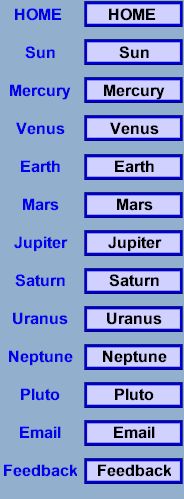
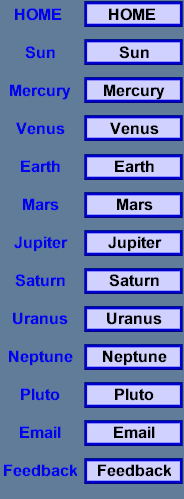
Adjusted background image

diff --git a/pages/sun.html b/pages/sun.html
@@ -6,7 +6,7 @@
 </head>
 <body>
 	<aside>
-		<img src="../images/sun.jpg" width="100" height="100">
+		<img src="../images/sun.jpg" width="120" height="120">
  <class id="aside">
 		<nav id="linkbar">
 			<ul>
@@ -30,7 +30,7 @@
 		<section id="section">
 			<header><div id="title"><h3>S u n</h3></header></div>
 			<div id="content"><p><b>From Wikipedia, the free encyclopedia</b><br><hr>
-				The Sun is the star at the center of the Solar System. It is almost perfectly spherical and consists of hot plasma interwoven with magnetic fields.[13][14] It has a diameter of about 1,392,684 km (865,374 mi),[5] around 109 times that of Earth, and its mass (1.989×1030 kilograms, approximately 330,000 times the mass of Earth) accounts for about 99.86% of the total mass of the Solar System.[15] Chemically, about three quarters of the Sun's mass consists of hydrogen, while the rest is mostly helium. The remainder (1.69%, which nonetheless equals 5,600 times the mass of Earth) consists of heavier elements, including oxygen, carbon, neon and iron, among others.<br>
+<b><i>The Sun is the star at the center of the Solar System. It is almost perfectly spherical and consists of hot plasma interwoven with magnetic fields.[13][14] It has a diameter of about 1,392,684 km (865,374 mi),[5] around 109 times that of Earth, and its mass (1.989×1030 kilograms, approximately 330,000 times the mass of Earth) accounts for about 99.86% of the total mass of the Solar System.[15] Chemically, about three quarters of the Sun's mass consists of hydrogen, while the rest is mostly helium. The remainder (1.69%, which nonetheless equals 5,600 times the mass of Earth) consists of heavier elements, including oxygen, carbon, neon and iron, among others.<br>
 The Sun formed about 4.6 billion[a] years ago from the gravitational collapse of a region within a large molecular cloud. Most of the matter gathered in the center, while the rest flattened into an orbiting disk that would become the Solar System. The central mass became increasingly hot and dense, eventually initiating thermonuclear fusion in its core. It is thought that almost all stars form by this process. The Sun is a G-type main-sequence star (G2V) based on spectral class and it is informally designated as a yellow dwarf because its visible radiation is most intense in the yellow-green portion of the spectrum, and although it is actually white in color, from the surface of the Earth it may appear yellow because of atmospheric scattering of blue light.[17] In the spectral class label, G2 indicates its surface temperature, of approximately 5778 K (5505 °C), and V indicates that the Sun, like most stars, is a main-sequence star, and thus generates its energy by nuclear fusion of hydrogen nuclei into helium. In its core, the Sun fuses about 620 million metric tons of hydrogen each second.<br>
 Once regarded by astronomers as a small and relatively insignificant star, the Sun is now thought to be brighter than about 85% of the stars in the Milky Way, most of which are red dwarfs.[20][21] The absolute magnitude of the Sun is +4.83; however, as the star closest to Earth, the Sun is by far the brightest object in the sky with an apparent magnitude of −26.74.[22][23] This is about 13 billion times brighter than the next brightest star, Sirius, with an apparent magnitude of -1.46. The Sun's hot corona continuously expands in space creating the solar wind, a stream of charged particles that extends to the heliopause at roughly 100 astronomical units. The bubble in the interstellar medium formed by the solar wind, the heliosphere, is the largest continuous structure in the Solar System.<br>
 The Sun is currently traveling through the Local Interstellar Cloud (near to the G-cloud) in the Local Bubble zone, within the inner rim of the Orion Arm of the Milky Way.[26][27] Of the 50 nearest stellar systems within 17 light-years from Earth (the closest being a red dwarf named Proxima Centauri at approximately 4.2 light-years away), the Sun ranks fourth in mass.[28] The Sun orbits the center of the Milky Way at a distance of approximately 24000–26000 light-years from the galactic center, completing one clockwise orbit, as viewed from the galactic north pole, in about 225–250 million years. Since the Milky Way is moving with respect to the cosmic microwave background radiation (CMB) in the direction of the constellation Hydra with a speed of 550 km/s, the Sun's resultant velocity with respect to the CMB is about 370 km/s in the direction of Crater or Leo.[29]

diff --git a/pages/mars.html b/pages/mars.html
@@ -6,7 +6,7 @@
 </head>
 <body>
 	<aside>
-		<img src="../images/mars.jpg" width="100" height="100">
+		<img src="../images/mars.jpg" width="120" height="120">
  <class id="aside">
 		<nav id="linkbar">
 			<ul>
@@ -31,7 +31,7 @@
 		<section id="section">
 			<header><div id="title"><h3>M a r s</h3></header></div>
 			<div id="content"><p><b>From Wikipedia, the free encyclopedia</b><br><hr>
-Mars is the fourth planet from the Sun and the second smallest planet in the Solar System, after Mercury. Named after the Roman god of war, it is often described as the "Red Planet" because the iron oxide prevalent on its surface gives it a reddish appearance.[15] Mars is a terrestrial planet with a thin atmosphere, having surface features reminiscent both of the impact craters of the Moon and the volcanoes, valleys, deserts, and polar ice caps of Earth. The rotational period and seasonal cycles of Mars are likewise similar to those of Earth, as is the tilt that produces the seasons. Mars is the site of Olympus Mons, the second highest known mountain within the Solar System (the tallest on a planet), and of Valles Marineris, one of the largest canyons. The smooth Borealis basin in the northern hemisphere covers 40% of the planet and may be a giant impact feature. Mars has two known moons, Phobos and Deimos, which are small and irregularly shaped. These may be captured asteroids, similar to 5261 Eureka, a Martian trojan asteroid.<br>
+<b><i>Mars is the fourth planet from the Sun and the second smallest planet in the Solar System, after Mercury. Named after the Roman god of war, it is often described as the "Red Planet" because the iron oxide prevalent on its surface gives it a reddish appearance.[15] Mars is a terrestrial planet with a thin atmosphere, having surface features reminiscent both of the impact craters of the Moon and the volcanoes, valleys, deserts, and polar ice caps of Earth. The rotational period and seasonal cycles of Mars are likewise similar to those of Earth, as is the tilt that produces the seasons. Mars is the site of Olympus Mons, the second highest known mountain within the Solar System (the tallest on a planet), and of Valles Marineris, one of the largest canyons. The smooth Borealis basin in the northern hemisphere covers 40% of the planet and may be a giant impact feature. Mars has two known moons, Phobos and Deimos, which are small and irregularly shaped. These may be captured asteroids, similar to 5261 Eureka, a Martian trojan asteroid.<br>
 Until the first successful Mars flyby in 1965 by Mariner 4, many speculated about the presence of liquid water on the planet's surface. This was based on observed periodic variations in light and dark patches, particularly in the polar latitudes, which appeared to be seas and continents; long, dark striations were interpreted by some as irrigation channels for liquid water. These straight line features were later explained as optical illusions, though geological evidence gathered by unmanned missions suggest that Mars once had large-scale water coverage on its surface. In 2005, radar data revealed the presence of large quantities of water ice at the poles[21] and at mid-latitudes. The Mars rover Spirit sampled chemical compounds containing water molecules in March 2007. The Phoenix lander directly sampled water ice in shallow Martian soil on July 31, 2008.<br>
 Mars is currently host to five functioning spacecraft: three in orbit – the Mars Odyssey, Mars Express, and Mars Reconnaissance Orbiter – and two on the surface – Mars Exploration Rover Opportunity and the Mars Science Laboratory Curiosity. Defunct spacecraft on the surface include MER-A Spirit and several other inert landers and rovers such as the Phoenix lander, which completed its mission in 2008. Observations by the Mars Reconnaissance Orbiter have revealed possible flowing water during the warmest months on Mars. In 2013, NASA's Curiosity rover discovered that Mars' soil contains between 1.5% and 3% water by mass (about two pints of water per cubic foot or 33 liters per cubic meter, albeit attached to other compounds and thus not freely accessible).<br>
 Mars can easily be seen from Earth with the naked eye, as can its reddish coloring. Its apparent magnitude reaches −3.0, which is surpassed only by Jupiter, Venus, the Moon, and the Sun. Optical ground-based telescopes are typically limited to resolving features about 300 km (186 miles) across when Earth and Mars are closest because of Earth's atmosphere.</p></div>

diff --git a/pages/ssindex.html b/pages/ssindex.html
@@ -6,7 +6,7 @@
 </head>
 <body>
 	<aside>
-		<img src="../images/solarsystem.jpg" width="100" height="100">
+		<img src="../images/solarsystem.jpg" width="120" height="120">
  <class id="aside">
 		<nav id="linkbar">
 			<ul>
@@ -30,7 +30,7 @@
 		<section id="section">
 			<header><div id="title"><h3>OUR SOLAR SYSTEM</h3></header></div>
 			<div id="content"><p><b>From Wikipedia, the free encyclopedia</b><br><hr>
-The Solar System is the Sun and the objects that orbit the Sun. These are a planetary system of eight planets and various secondary bodies, dwarf planets and small Solar System objects that orbit the Sun directly, as well as satellites (moons) that orbit many planets and smaller objects. The Solar System formed 4.6 billion years ago from the gravitational collapse of a giant molecular cloud. The vast majority of the system's mass is in the Sun, with most of the remaining mass contained in Jupiter. The four smaller inner planets, Mercury, Venus, Earth and Mars, also called the terrestrial planets, are primarily composed of rock and metal. The four outer planets, called the gas giants, are substantially more massive than the terrestrials. The two largest, Jupiter and Saturn, are composed mainly of hydrogen and helium; the two outermost planets, Uranus and Neptune, are composed largely of substances with relatively high melting points (compared with hydrogen and helium), called ices, such as water, ammonia and methane, and are often referred to separately as "ice giants". All planets have almost circular orbits that lie within a nearly flat disc called the ecliptic plane.<br>
+<b><i>The Solar System is the Sun and the objects that orbit the Sun. These are a planetary system of eight planets and various secondary bodies, dwarf planets and small Solar System objects that orbit the Sun directly, as well as satellites (moons) that orbit many planets and smaller objects. The Solar System formed 4.6 billion years ago from the gravitational collapse of a giant molecular cloud. The vast majority of the system's mass is in the Sun, with most of the remaining mass contained in Jupiter. The four smaller inner planets, Mercury, Venus, Earth and Mars, also called the terrestrial planets, are primarily composed of rock and metal. The four outer planets, called the gas giants, are substantially more massive than the terrestrials. The two largest, Jupiter and Saturn, are composed mainly of hydrogen and helium; the two outermost planets, Uranus and Neptune, are composed largely of substances with relatively high melting points (compared with hydrogen and helium), called ices, such as water, ammonia and methane, and are often referred to separately as "ice giants". All planets have almost circular orbits that lie within a nearly flat disc called the ecliptic plane.<br>
 The Solar System also contains regions populated by smaller objects. The asteroid belt, which lies between Mars and Jupiter, mostly contains objects composed, like the terrestrial planets, of rock and metal. Beyond Neptune's orbit lie the Kuiper belt and scattered disc, linked populations of trans-Neptunian objects composed mostly of ices. Within these populations are several dozen to more than ten thousand objects that may be large enough to have been rounded by their own gravity. Such objects are referred to as dwarf planets. Identified dwarf planets include the asteroid Ceres and the trans-Neptunian objects Pluto and Eris. In addition to these two regions, various other small-body populations including comets, centaurs and interplanetary dust freely travel between regions. Six of the planets, at least three of the dwarf planets, and many of the smaller bodies are orbited by natural satellites,[d] usually termed "moons" after Earth's Moon. Each of the outer planets is encircled by planetary rings of dust and other small objects.<br>
 The solar wind, a flow of plasma from the Sun, creates a bubble in the interstellar medium known as the heliosphere, which extends out to the edge of the scattered disc. The Oort cloud, which is believed to be the source for long-period comets, may also exist at a distance roughly a thousand times further than the heliosphere. The heliopause is the point at which pressure from the solar wind is equal to the opposing pressure of interstellar wind. The Solar System is located within one of the outer arms of the Milky Way, which contains about 200 billion stars.</p></div>
 <br>

diff --git a/pages/neptune.html b/pages/neptune.html
@@ -6,7 +6,7 @@
 </head>
 <body>
 	<aside>
-		<img src="../images/neptune.jpg" width="100" height="100">
+		<img src="../images/neptune.jpg" width="120" height="120">
  <class id="aside">
 		<nav id="linkbar">
 			<ul>
@@ -30,7 +30,7 @@
 		<section id="section">
 			<header><div id="title"><h3>N e p t u n e</h3></header></div>
 			<div id="content"><p><b>From Wikipedia, the free encyclopedia</b><br><hr>
-Neptune is the eighth and farthest planet from the Sun in the Solar System. It is the fourth-largest planet by diameter and the third-largest by mass. Among the gaseous planets in the solar system, Neptune is the most dense. Neptune is 17 times the mass of Earth and is slightly more massive than its near-twin Uranus, which is 15 times the mass of Earth but not as dense.[c] On average, Neptune orbits the Sun at a distance of 30.1 AU, approximately 30 times the Earth–Sun distance. Named after the Roman god of the sea, its astronomical symbol is ♆, a stylised version of the god Neptune's trident.<br>
+<b><i>Neptune is the eighth and farthest planet from the Sun in the Solar System. It is the fourth-largest planet by diameter and the third-largest by mass. Among the gaseous planets in the solar system, Neptune is the most dense. Neptune is 17 times the mass of Earth and is slightly more massive than its near-twin Uranus, which is 15 times the mass of Earth but not as dense.[c] On average, Neptune orbits the Sun at a distance of 30.1 AU, approximately 30 times the Earth–Sun distance. Named after the Roman god of the sea, its astronomical symbol is ♆, a stylised version of the god Neptune's trident.<br>
 Neptune was the first planet found by mathematical prediction rather than by empirical observation. Unexpected changes in the orbit of Uranus led Alexis Bouvard to deduce that its orbit was subject to gravitational perturbation by an unknown planet. Neptune was subsequently observed on 23 September 1846[1] by Johann Galle within a degree of the position predicted by Urbain Le Verrier, and its largest moon, Triton, was discovered shortly thereafter, though none of the planet's remaining 13 moons were located telescopically until the 20th century. Neptune has been visited by one spacecraft, Voyager 2, which flew by the planet on 25 August 1989.<br>
 Neptune is similar in composition to Uranus, and both have compositions which differ from those of the larger gas giants, Jupiter, and Saturn. Neptune's atmosphere, while similar to Jupiter's and Saturn's in that it is composed primarily of hydrogen and helium, along with traces of hydrocarbons and possibly nitrogen, contains a higher proportion of "ices" such as water, ammonia, and methane. Astronomers sometimes categorise Uranus and Neptune as "ice giants" in order to emphasise these distinctions.[10] The interior of Neptune, like that of Uranus, is primarily composed of ices and rock.[11] It is possible that the core has a solid surface, but the temperature would be thousands of degrees and the atmospheric pressure crushing. Traces of methane in the outermost regions in part account for the planet's blue appearance.<br>
 In contrast to the hazy, relatively featureless atmosphere of Uranus, Neptune's atmosphere is notable for its active and visible weather patterns. For example, at the time of the 1989 Voyager 2 flyby, the planet's southern hemisphere possessed a Great Dark Spot comparable to the Great Red Spot on Jupiter. These weather patterns are driven by the strongest sustained winds of any planet in the Solar System, with recorded wind speeds as high as 2,100 kilometres per hour (1,300 mph).<br> Because of its great distance from the Sun, Neptune's outer atmosphere is one of the coldest places in the Solar System, with temperatures at its cloud tops approaching 55 K (−218 °C). Temperatures at the planet's centre are approximately 5,400 K (5,000 °C).[15][16] Neptune has a faint and fragmented ring system (labeled 'arcs'), which may have been detected during the 1960s but was only indisputably confirmed in 1989 by Voyager 2.</p></div>

diff --git a/pages/mercury.html b/pages/mercury.html
@@ -6,7 +6,7 @@
 </head>
 <body>
 	<aside>
-		<img src="../images/mercury.jpg" width="100" height="100">
+		<img src="../images/mercury.jpg" width="120" height="120">
  <class id="aside">
 		<nav id="linkbar">
 			<ul>
@@ -30,7 +30,7 @@
 		<section id="section">
 			<header><div id="title"><h3>M e r c u r y</h3></header></div>
 			<div id="content"><p><b>From Wikipedia, the free encyclopedia</b><br><hr>
-Mercury is the smallest and closest to the Sun of the eight planets in the Solar System, with an orbital period of about 88 Earth days. Seen from Earth, it appears to move around its orbit in about 116 days, which is much faster than any other planet. This rapid motion may have led to it being named after the Roman deity Mercury, the fast-flying messenger to the gods. Because it has almost no atmosphere to retain heat, Mercury's surface experiences the greatest temperature variation of all the planets, ranging from 100 K (−173 °C; −280 °F) at night to 700 K (427 °C; 800 °F) during the day at some equatorial regions. The poles are constantly below 180 K (−93 °C; −136 °F). Mercury's axis has the smallest tilt of any of the Solar System's planets (about 1⁄30 of a degree), but it has the largest orbital eccentricity. As such it does not experience seasons in the same way as most other planets such as Earth. At aphelion, Mercury is about 1.5 times as far from the Sun as it is at perihelion. Mercury's surface is heavily cratered and similar in appearance to the Moon, indicating that it has been geologically inactive for billions of years.<br>
+<b><i>Mercury is the smallest and closest to the Sun of the eight planets in the Solar System, with an orbital period of about 88 Earth days. Seen from Earth, it appears to move around its orbit in about 116 days, which is much faster than any other planet. This rapid motion may have led to it being named after the Roman deity Mercury, the fast-flying messenger to the gods. Because it has almost no atmosphere to retain heat, Mercury's surface experiences the greatest temperature variation of all the planets, ranging from 100 K (−173 °C; −280 °F) at night to 700 K (427 °C; 800 °F) during the day at some equatorial regions. The poles are constantly below 180 K (−93 °C; −136 °F). Mercury's axis has the smallest tilt of any of the Solar System's planets (about 1⁄30 of a degree), but it has the largest orbital eccentricity. As such it does not experience seasons in the same way as most other planets such as Earth. At aphelion, Mercury is about 1.5 times as far from the Sun as it is at perihelion. Mercury's surface is heavily cratered and similar in appearance to the Moon, indicating that it has been geologically inactive for billions of years.<br>
 Mercury is gravitationally locked and rotates in a way that is unique in the Solar System. As seen relative to the fixed stars, it rotates exactly three times for every two revolutions it makes around its orbit. As seen from the Sun, in a frame of reference that rotates with the orbital motion, it appears to rotate only once every two Mercurian years. An observer on Mercury would therefore see only one day every two years.<br>
 Because Mercury's orbit lies within Earth's orbit (as does Venus's), it can appear in Earth's sky in the morning or the evening, but not in the middle of the night. Also, like Venus and the Moon, it displays a complete range of phases as it moves around its orbit relative to Earth. Although Mercury can appear as a very bright object when viewed from Earth, its proximity to the Sun makes it more difficult to see than Venus. Two spacecraft have visited Mercury: Mariner 10 flew by in the 1970s and MESSENGER, launched in 2004, remains in orbit.</p></div>
 <br>

diff --git a/pages/jupiter.html b/pages/jupiter.html
@@ -6,7 +6,7 @@
 </head>
 <body>
 	<aside>
-		<img src="../images/jupiter.jpg" width="100" height="100">
+		<img src="../images/jupiter.jpg" width="120" height="120">
  <class id="aside">
 		<nav id="linkbar">
 			<ul>
@@ -30,7 +30,7 @@
 		<section id="section">
 			<header><div id="title"><h3>J u p i t e r</h3></header></div>
 			<div id="content"><p><b>From Wikipedia, the free encyclopedia</b><br><hr>
-Jupiter is the fifth planet from the Sun and the largest planet in the Solar System. It is a gas giant with mass one-thousandth of that of the Sun but is two and a half times the mass of all the other planets in the Solar System combined. Jupiter is classified as a gas giant along with Saturn, Uranus and Neptune. Together, these four planets are sometimes referred to as the Jovian or outer planets. The planet was known by astronomers of ancient times, and was associated with the mythology and religious beliefs of many cultures. The Romans named the planet after the Roman god Jupiter. When viewed from Earth, Jupiter can reach an apparent magnitude of −2.94, bright enough to cast shadows, and making it on average the third-brightest object in the night sky after the Moon and Venus. (Mars can briefly match Jupiter's brightness at certain points in its orbit.)<br>
+<b><i>Jupiter is the fifth planet from the Sun and the largest planet in the Solar System. It is a gas giant with mass one-thousandth of that of the Sun but is two and a half times the mass of all the other planets in the Solar System combined. Jupiter is classified as a gas giant along with Saturn, Uranus and Neptune. Together, these four planets are sometimes referred to as the Jovian or outer planets. The planet was known by astronomers of ancient times, and was associated with the mythology and religious beliefs of many cultures. The Romans named the planet after the Roman god Jupiter. When viewed from Earth, Jupiter can reach an apparent magnitude of −2.94, bright enough to cast shadows, and making it on average the third-brightest object in the night sky after the Moon and Venus. (Mars can briefly match Jupiter's brightness at certain points in its orbit.)<br>
 Jupiter is primarily composed of hydrogen with a quarter of its mass being helium, although helium only comprises about a tenth of the number of molecules. It may also have a rocky core of heavier elements, but like the other gas giants, Jupiter lacks a well-defined solid surface. Because of its rapid rotation, the planet's shape is that of an oblate spheroid (it possesses a slight but noticeable bulge around the equator). The outer atmosphere is visibly segregated into several bands at different latitudes, resulting in turbulence and storms along their interacting boundaries. A prominent result is the Great Red Spot, a giant storm that is known to have existed since at least the 17th century when it was first seen by telescope. Surrounding Jupiter is a faint planetary ring system and a powerful magnetosphere. There are also at least 67 moons, including the four large moons called the Galilean moons that were first discovered by Galileo Galilei in 1610. Ganymede, the largest of these moons, has a diameter greater than that of the planet Mercury.<br>
 Jupiter has been explored on several occasions by robotic spacecraft, most notably during the early Pioneer and Voyager flyby missions and later by the Galileo orbiter. The most recent probe to visit Jupiter was the Pluto-bound New Horizons spacecraft in late February 2007. The probe used the gravity from Jupiter to increase its speed. Future targets for exploration in the Jovian system include the possible ice-covered liquid ocean on the moon Europa.</p></div>
 <br>

diff --git a/pages/pluto.html b/pages/pluto.html
@@ -6,7 +6,7 @@
 </head>
 <body>
 	<aside>
-		<img src="../images/pluto.gif" width="100" height="100">
+		<img src="../images/pluto.gif" width="120" height="120">
  <class id="aside">
 		<nav id="linkbar">
 			<ul>
@@ -31,7 +31,7 @@
 		<section id="section">
 			<header><div id="title"><h3>P l u t o</h3></header></div>
 			<div id="content"><p><b>From Wikipedia, the free encyclopedia</b><br><hr>
-Pluto (minor-planet designation 134340 Pluto) is the largest object in the Kuiper belt, and the tenth-most-massive body observed directly orbiting the Sun. It is the second-most-massive known dwarf planet, after Eris. Like other Kuiper-belt objects, Pluto is composed primarily of rock and ice[15] and is relatively small, approximately one-sixth the mass of the Moon and one-third its volume. It has an eccentric and highly inclined orbit that takes it from 30 to 49 AU (4.4–7.4 billion km) from the Sun. This causes Pluto to periodically come closer to the Sun than Neptune. As of 2014, it is 32.6 AU from the Sun.<br>
+<b><i>Pluto (minor-planet designation 134340 Pluto) is the largest object in the Kuiper belt, and the tenth-most-massive body observed directly orbiting the Sun. It is the second-most-massive known dwarf planet, after Eris. Like other Kuiper-belt objects, Pluto is composed primarily of rock and ice[15] and is relatively small, approximately one-sixth the mass of the Moon and one-third its volume. It has an eccentric and highly inclined orbit that takes it from 30 to 49 AU (4.4–7.4 billion km) from the Sun. This causes Pluto to periodically come closer to the Sun than Neptune. As of 2014, it is 32.6 AU from the Sun.<br>
 Discovered in 1930, Pluto was originally classified as the ninth planet from the Sun. Its status as a major planet fell into question following further study of it and the outer Solar System over the ensuing 75 years. Starting in 1977 with discovery of minor planet 2060 Chiron, numerous icy objects similar to Pluto with eccentric orbits were found.[16] The most notable of these was the scattered disc object Eris, discovered in 2005, which is 27% more massive than Pluto.[17] The understanding that Pluto is only one of several large icy bodies in the outer Solar System prompted the International Astronomical Union (IAU) to formally define what it means to be a "planet" in 2006. This definition excluded Pluto and reclassified it as a member of the new "dwarf planet" category (and specifically as a plutoid).[18] Some scientists hold that Pluto should have remained classified as a planet, and that other dwarf planets should be added to the roster of planets along with Pluto.<br>
 Pluto has five known moons: Charon (the largest, with a diameter just over half that of Pluto), Nix, Hydra, Kerberos, and Styx. Pluto and Charon are sometimes described as a binary system because the barycenter of their orbits does not lie within either body.[22] The IAU has yet to formalise a definition for binary dwarf planets, and Charon is officially classified as a moon of Pluto.[23]
 In 2015, the Pluto system is due to be visited by spacecraft for the first time. The New Horizons probe will perform a flyby during which it will attempt to take detailed measurements and images of the plutoid and its moons.</p></div>

diff --git a/pages/uranus.html b/pages/uranus.html
@@ -6,7 +6,7 @@
 </head>
 <body>
 	<aside>
-		<img src="../images/uranus.jpg" width="100" height="100">
+		<img src="../images/uranus.jpg" width="120" height="120">
  <class id="aside">
 		<nav id="linkbar">
 			<ul>
@@ -30,7 +30,7 @@
 		<section id="section">
 			<header><div id="title"><h3>U r a n u s</h3></header></div>
 			<div id="content"><p><b>From Wikipedia, the free encyclopedia</b><br><hr>
-Uranus is the seventh planet from the Sun. It has the third-largest planetary radius and fourth-largest planetary mass in the Solar System. Uranus is similar in composition to Neptune, and both are of different chemical composition than the larger gas giants Jupiter and Saturn. For this reason, astronomers sometimes place them in a separate category called "ice giants". Uranus's atmosphere, although similar to Jupiter's and Saturn's in its primary composition of hydrogen and helium, contains more "ices" such as water, ammonia, and methane, along with traces of hydrocarbons.[12] It is the coldest planetary atmosphere in the Solar System, with a minimum temperature of 49 K (−224.2 °C), and has a complex, layered cloud structure, with water thought to make up the lowest clouds, and methane the uppermost layer of clouds.[12] In contrast, the interior of Uranus is mainly composed of ices and rock.<br>
+<b><i>Uranus is the seventh planet from the Sun. It has the third-largest planetary radius and fourth-largest planetary mass in the Solar System. Uranus is similar in composition to Neptune, and both are of different chemical composition than the larger gas giants Jupiter and Saturn. For this reason, astronomers sometimes place them in a separate category called "ice giants". Uranus's atmosphere, although similar to Jupiter's and Saturn's in its primary composition of hydrogen and helium, contains more "ices" such as water, ammonia, and methane, along with traces of hydrocarbons.[12] It is the coldest planetary atmosphere in the Solar System, with a minimum temperature of 49 K (−224.2 °C), and has a complex, layered cloud structure, with water thought to make up the lowest clouds, and methane the uppermost layer of clouds.[12] In contrast, the interior of Uranus is mainly composed of ices and rock.<br>
 It is the only planet whose name is derived from a figure from Greek mythology rather than Roman mythology like the other planets, from the Latinized version of the Greek god of the sky, Ouranos. Like the other giant planets, Uranus has a ring system, a magnetosphere, and numerous moons. The Uranian system has a unique configuration among those of the planets because its axis of rotation is tilted sideways, nearly into the plane of its revolution about the Sun. Its north and south poles therefore lie where most other planets have their equators.[16] In 1986, images from Voyager 2 showed Uranus as a virtually featureless planet in visible light without the cloud bands or storms associated with the other giants.[16] Terrestrial observers have seen signs of seasonal change and increased weather activity in recent years as Uranus approached its equinox. The wind speeds on Uranus can reach 250 meters per second (900 km/h, 560 mph).</p></div>
 <br>
 <hr>

diff --git a/pages/venus.html b/pages/venus.html
@@ -6,7 +6,7 @@
 </head>
 <body>
 	<aside>
-		<img src="../images/venus.jpg" width="100" height="100">
+		<img src="../images/venus.jpg" width="120" height="120">
  <class id="aside">
 		<nav id="linkbar">
 			<ul>
@@ -30,7 +30,7 @@
 		<section id="section">
 			<header><div id="title"><h3>V e n u s</h3></header></div>
 			<div id="content"><p><b>From Wikipedia, the free encyclopedia</b><br><hr>
-Venus is the second planet from the Sun, orbiting it every 224.7 Earth days.[11] It has no natural satellite. It is named after the Roman goddess of love and beauty. After the Moon, it is the brightest natural object in the night sky, reaching an apparent magnitude of −4.6, bright enough to cast shadows.[12] Because Venus is an inferior planet from Earth, it never appears to venture far from the Sun: its elongation reaches a maximum of 47.8°. Venus reaches its maximum brightness shortly before sunrise or shortly after sunset, for which reason it has been referred to by ancient cultures as the Morning Star or Evening Star.<br>
+<b><i>Venus is the second planet from the Sun, orbiting it every 224.7 Earth days.[11] It has no natural satellite. It is named after the Roman goddess of love and beauty. After the Moon, it is the brightest natural object in the night sky, reaching an apparent magnitude of −4.6, bright enough to cast shadows.[12] Because Venus is an inferior planet from Earth, it never appears to venture far from the Sun: its elongation reaches a maximum of 47.8°. Venus reaches its maximum brightness shortly before sunrise or shortly after sunset, for which reason it has been referred to by ancient cultures as the Morning Star or Evening Star.<br>
 Venus is a terrestrial planet and is sometimes called Earth's "sister planet" because of their similar size, gravity, and bulk composition (Venus is both the closest planet to Earth and the planet closest in size to Earth). However, it has also been shown to be very different from Earth in other respects. It has the densest atmosphere of the four terrestrial planets, consisting of more than 96% carbon dioxide. The atmospheric pressure at the planet's surface is 92 times that of Earth's. With a mean surface temperature of 735 K (462 °C; 863 °F), Venus is by far the hottest planet in the Solar System. It has no carbon cycle to lock carbon back into rocks and surface features, nor does it seem to have any organic life to absorb it in biomass. Venus is shrouded by an opaque layer of highly reflective clouds of sulfuric acid, preventing its surface from being seen from space in visible light. Venus may have possessed oceans in the past,[13][14] but these would have vaporized as the temperature rose due to a runaway greenhouse effect.[15] The water has most probably photodissociated, and, because of the lack of a planetary magnetic field, the free hydrogen has been swept into interplanetary space by the solar wind.[16] Venus's surface is a dry desertscape interspersed with slab-like rocks and periodically refreshed by volcanism.</p></div>
 <br>
 <hr>

diff --git a/pages/earth.html b/pages/earth.html
@@ -6,7 +6,7 @@
 </head>
 <body>
 	<aside>
-		<img src="../images/earth.jpg" width="100" height="100">
+		<img src="../images/earth.jpg" width="120" height="120">
  <class id="aside">
 		<nav id="linkbar">
 			<ul>
@@ -30,7 +30,7 @@
 		<section id="section">
 			<header><div id="title"><h3>E a r t h</h3></header></div>
 			<div id="content"><p><b>From Wikipedia, the free encyclopedia</b><br><hr>
-Earth is the third planet from the Sun. It is the densest and fifth-largest of the eight planets in the Solar System. It is also the largest of the Solar System's four terrestrial planets. It is sometimes referred to as the world or the Blue Planet.<br>
+<b><i>Earth is the third planet from the Sun. It is the densest and fifth-largest of the eight planets in the Solar System. It is also the largest of the Solar System's four terrestrial planets. It is sometimes referred to as the world or the Blue Planet.<br>
 Earth formed approximately 4.54 billion years ago, and life appeared on its surface within its first billion years. Earth's biosphere then significantly altered the atmospheric and other basic physical conditions, which enabled the proliferation of organisms as well as the formation of the ozone layer, which together with Earth's magnetic field blocked harmful solar radiation, and permitted formerly ocean-confined life to move safely to land. The physical properties of the Earth, as well as its geological history and orbit, have allowed life to persist.<br>
 Earth's lithosphere is divided into several rigid segments, or tectonic plates, that migrate across the surface over periods of many millions of years. Over 70% percent of Earth's surface is covered with water, with the remainder consisting of continents and islands which together have many lakes and other sources of water that contribute to the hydrosphere. Earth's poles are mostly covered with ice that is the solid ice of the Antarctic ice sheet and the sea ice that is the polar ice packs. The planet's interior remains active, with a solid iron inner core, a liquid outer core that generates the magnetic field, and a thick layer of relatively solid mantle.<br>
 Earth gravitationally interacts with other objects in space, especially the Sun and the Moon. During one orbit around the Sun, the Earth rotates about its own axis 366.26 times, creating 365.26 solar days, or one sidereal year.[note 6] The Earth's axis of rotation is tilted 23.4° away from the perpendicular of its orbital plane, producing seasonal variations on the planet's surface with a period of one tropical year (365.24 solar days). The Moon is Earth's only natural satellite. It began orbiting the Earth about 4.53 billion years ago (bya). The Moon's gravitational interaction with Earth stimulates ocean tides, stabilizes the axial tilt, and gradually slows the planet's rotation.<br>

diff --git a/pages/saturn.html b/pages/saturn.html
@@ -6,7 +6,7 @@
 </head>
 <body>
 	<aside>
-		<img src="../images/saturn.jpg" width="100" height="100">
+		<img src="../images/saturn.jpg" width="120" height="120">
  <class id="aside">
 		<nav id="linkbar">
 			<ul>
@@ -31,7 +31,7 @@
 		<section id="section">
 			<header><div id="title"><h3>S a t u r n</h3></header></div>
 			<div id="content"><p><b>From Wikipedia, the free encyclopedia</b><br><hr>
-Saturn is the sixth planet from the Sun and the second largest planet in the Solar System, after Jupiter. Named after the Roman god of agriculture, its astronomical symbol (♄) represents the god's sickle. Saturn is a gas giant with an average radius about nine times that of Earth.[10][11] While only one-eighth the average density of Earth, with its larger volume Saturn is just over 95 times more massive.<br>
+<b><i>Saturn is the sixth planet from the Sun and the second largest planet in the Solar System, after Jupiter. Named after the Roman god of agriculture, its astronomical symbol (♄) represents the god's sickle. Saturn is a gas giant with an average radius about nine times that of Earth.[10][11] While only one-eighth the average density of Earth, with its larger volume Saturn is just over 95 times more massive.<br>
 Saturn's interior is probably composed of a core of iron, nickel and rock (silicon and oxygen compounds), surrounded by a deep layer of metallic hydrogen, an intermediate layer of liquid hydrogen and liquid helium and an outer gaseous layer.[15] The planet exhibits a pale yellow hue due to ammonia crystals in its upper atmosphere. Electrical current within the metallic hydrogen layer is thought to give rise to Saturn's planetary magnetic field, which is weaker than Earth's magnetic field but has a magnetic moment 580 times that of the Earth due to Saturn's larger body radius. Saturn's magnetic field strength is around one-twentieth the strength of Jupiter's.[16] The outer atmosphere is generally bland and lacking in contrast, although long-lived features can appear. Wind speeds on Saturn can reach 1,800 km/h (1,100 mph), faster than on Jupiter, but not as fast as those on Neptune.<br>
 Saturn has a prominent ring system that consists of nine continuous main rings and three discontinuous arcs, composed mostly of ice particles with a smaller amount of rocky debris and dust. Sixty-two[18] known moons orbit the planet; fifty-three are officially named. This does not include the hundreds of "moonlets" comprising the rings. Titan, Saturn's largest and the Solar System's second largest moon, is larger than the planet Mercury and is the only moon in the Solar System to retain a substantial atmosphere.</p></div>
 <br>

diff --git a/stylesheets/solarsystemstylesheet.css b/stylesheets/solarsystemstylesheet.css
@@ -4,7 +4,7 @@
 
 /*opacity:0.2;*/
 
-html{background:url(../images/milkywayfade.jpg);
+html{background:url(../images/milkywayfadelight.jpg);
 	background-clip:padding-box;
 }
 
@@ -19,8 +19,9 @@ font: 14px "Verdana", Georgia,Serif;
  }
  aside{background-color:rgba(0,128,255,0.2);
  	float:left;
+ 	margin-top:10px;
  	width:0px;
- 	margin:70px;
+ 	margin:10px;
  	padding:0px;
 }
 
@@ -119,7 +120,7 @@ font: 14px "Verdana", Georgia,Serif;
 		background-clip:padding-box;
 		position:relative;
 		float:left;
-		margin-left: 55px;
+		margin-left: 115px;
 		width:900px;
 		height:relative;
 		margin-top: 10px;
